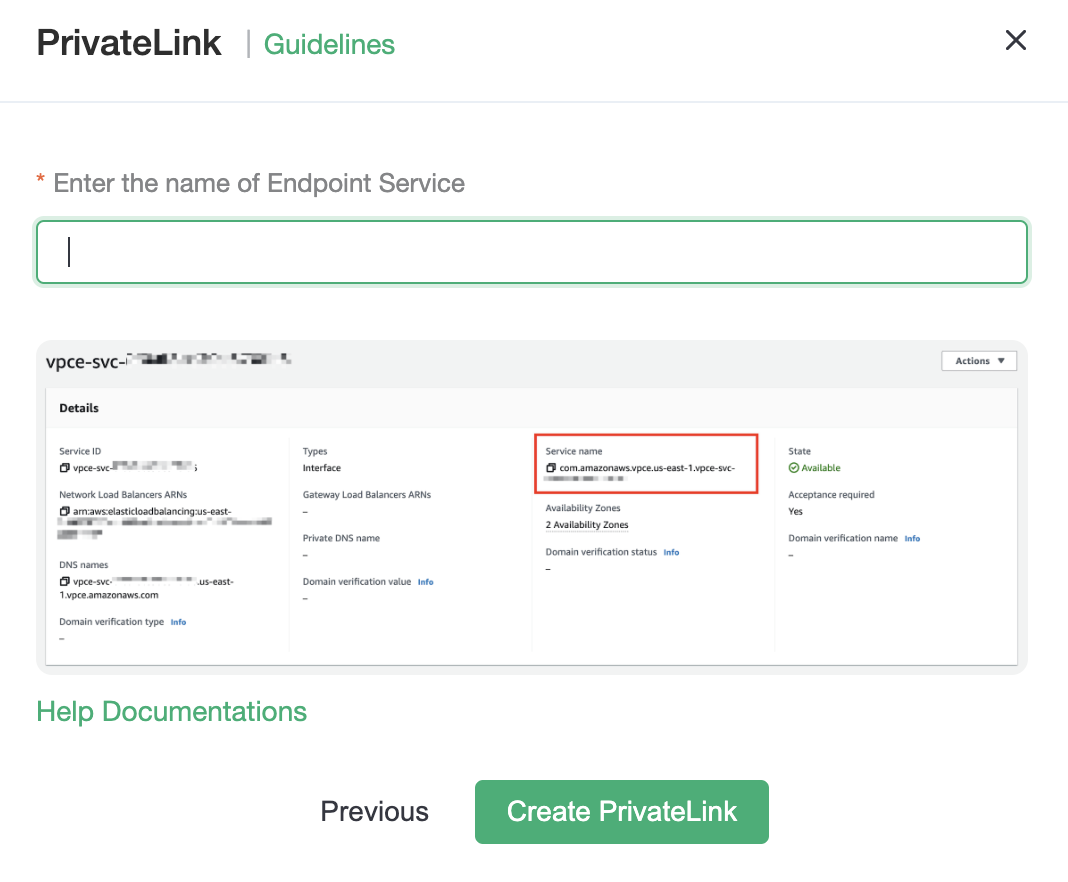
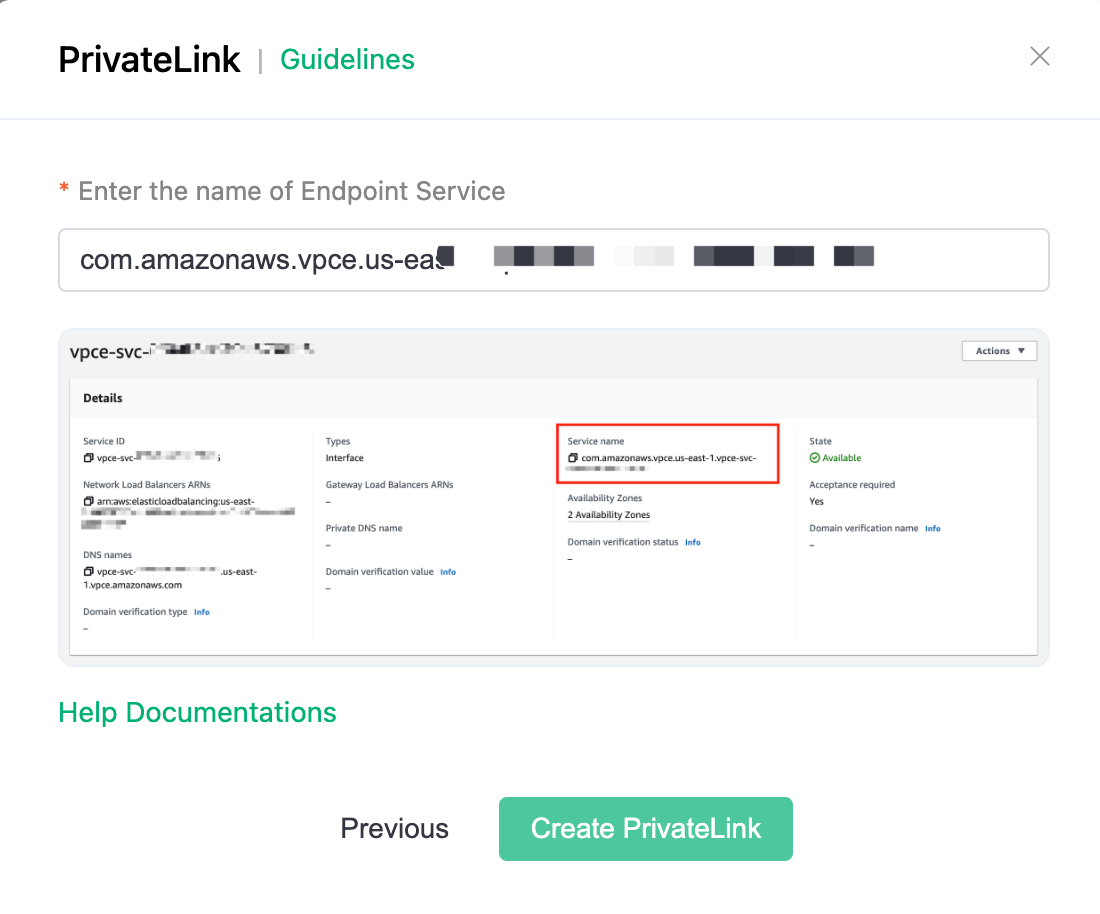
feat(docs): update_privatelink of deployment

diff --git a/en_US/deployments/privatelink.md b/en_US/deployments/privatelink.md
@@ -1,72 +1,99 @@
-# PrivateLink Setting
+# PrivateLink
 
 PrivateLink enables the proprietary network VPC where the EMQX Cloud deployment is located to establish a secure and stable private connection to services on the public cloud. It simplifies the network architecture, enables private access to services, and avoids the potential security risks associated with accessing services over the public network.
 
 In the private connection, the EMQX Cloud deployment VPC acts as the service user and requests the VPC where the user's resources are located in the cloud service provider, i.e., the service provider.
 
-## AWS Platform PrivateLink Connection
+## AWS PrivateLink
 
 <LazyIframeVideo vendor="youtube" src="https://www.youtube.com/embed/vu_3KW4pq9A/?autoplay=1&null" />
 
-### Preparation
+### Before you begin
 
-Before you can configure PrivateLink, you need to complete the following prerequisites on the AWS platform.
+When creating Endpoint Service in AWS, the LB Availability Zone [AZ ID](https://us-east-1.console.aws.amazon.com/ram/home?region=us-east-1#Home) created should be identical to that in the EMQX Cloud deployment. To get the AZ ID in EMQX cloud:
 
-1. register an AWS account and enable the PrivateLink service
+Login to [EMQX Cloud Console](<https://cloud.emqx.com/console>), go to the desired deployment creation details, and click the `+PrivateLink` button to get the deployment availability zone.
+
+![lb](./_assets/deployment_privatelink_details.png)
+
+Before you can configure PrivateLink, you need to complete the following prerequisite steps on the AWS platform.
+
+1. Register an AWS account and enable the PrivateLink service
 
 2. Create an instance and VPC
 
-3. Create and configure load balancer
+3. Create a target group for load balancing
 
-> Note: The LB Availability Zone [AZ ID](https://us-east-1.console.aws.amazon.com/ram/home?region=us-east-1#Home) created here needs to match the EMQX Cloud deployment LB Availability Zone AZ ID, which is available in the This information is available in EMQX Cloud console.
+    On **Basic configuration**, set the **Target group name**, **Protocol** （TCP） and **Port**.
 
-![lb](./_assets/p1.png)
+    ![lb](./_assets/lb_target_group_1.png)
 
-After creating the LB, configure the listening ports of your resources and check if their status is normal.
+    On **Health checks**, set the **Override** port, and for the rest, you can keep the default setting or set as your business needs.
+    ![lb](./_assets/lb_target_group_2.png)
 
-![lb](./_assets/p2.png)
+    Then register target group and create instance.
+    ![lb](./_assets/lb_target_group_3.png)
 
-Create an endpoint node service
+4. Create and configure the Load Balancer with the AZ ID you obtained from EMQX Cloud Console.
 
-Find the Endpoint Node Service in the left menu bar of your AWS account and click Create. The load balancer type is Gateway, select the load balancer created in the previous step.
+    Select the type of load balancing as **Network Load Balancer**.
+    ![lb](./_assets/lb_type.png)
 
-![lb](./_assets/p3.png)
+    Select the schema type as internal to facilitate requests to private IP addresses.
+    ![lb](./_assets/lb_1.png)
 
-You can refer to [AWS Help](https://docs.aws.amazon.com/vpc/latest/privatelink/create-gateway-load-balancer-endpoint-service.html) to complete the above configuration.
+    Select the TCP protocol, fill in the listening port and the corresponding target group.
+    ![lb](./_assets/lb_2.png)
 
-### Create private network connection PrivateLink
+    After creating the load balancer, check whether the listening port status of the target group is healthy.
+    ![lb](./_assets/lb_3.png)
 
-1. Login to [EMQX Cloud Console](<https://cloud.emqx.com/console>), go to the desired deployment creation details, and click the `+PrivateLink` button to get the deployment availability zone AZ ID.
+5. Create an endpoint service
 
-    ![lb](./_assets/p5.png)
+    Find the Endpoint Services in the left menu bar of your AWS account and click Create. The load balancer type is Network, select the load balancer created in the previous step.
+    ![endpoint service](./_assets/endpoint_service_1.png)
 
-2. After getting the AWS account ARN where the deployment is located in EMQX Cloud console, add it to the allowed principals entry of your AWS Platform-Endpoint service.
+    In the additional settings, select the IP address type as IPV4.
+    ![endpoint service](./_assets/endpoint_service_2.png)
 
-    Once added, click `Complete Configuration to go to the next step`.
+    Once created, you will get the endpoint service name.
+    ![endpoint service](./_assets/endpoint_service_3.png)
 
-3. Locate the Endpoint Node service on your AWS platform, copy the service name, fill it to the EMQX Cloud Endpoint Node service name, and click `Create Private Network Connection`.
+    You can refer to [AWS Help](https://docs.aws.amazon.com/vpc/latest/privatelink/create-endpoint-service.html#create-endpoint-service-nlb) to complete the above configuration.
+
+### Enable EMQX Cloud PrivateLink
+
+1. After getting the AWS ARN where the deployment is located in EMQX Cloud console, add it to the allowed principals entry of your AWS Platform-Endpoint Service.
+
+    ![lb](./_assets/endpoint_service_grant.png)
+
+    Once added, click `Allow principals and go to the next step`.
+
+2. Locate the Endpoint service on your AWS platform, copy the service name, fill it to the EMQX Cloud Endpoint service name, and click `Create PrivateLink`.
 
     ![lb](./_assets/p6.png)
 
-4. Once completed, find the Endpoint Node Service - Endpoint Node Connection in your AWS platform and click `Accept Endpoint Node Connection Request`.
+3. Once completed, find the Endpoint Service - Endpoint Connection in your AWS platform and click `Accept Endpoint Connection Request`.
 
-    ![lb](./_assets/p7.png)
+    ![lb](./_assets/accept_enpoint_service.png)
 
-5. Wait for a while and check the status of the private network connection in the deployment details, `running` means it has been created successfully. Copy the `service connection domain` for the next data integration-resource configuration.
+4. Wait for a while and check the status of the PrivateLink in the deployment details, `running` means it has been created successfully. Copy the `Address` for the next data integration-resource configuration.
 
-    ![lb](./_assets/p4.png)
+    ![lb](./_assets/privatelink_status.png)
 
-6. Click the Data Integration menu on the left, find the Redis resource, fill in the `Redis Server` on the New Resource page with the private connection service connection domain and port, click `Test Connection`, and the resource will be available.
+5. Click the Data Integration menu on the left, find the resource type, fill in the `Server` on the New Resource page with the private connection service connection domain and port, databse and user infomation，click `Test`, and the resource will be available.
 
     ![lb](./_assets/privatelink_en_resource.png)
 
-### Delete the private network connection
+### Delete the PrivateLink
 
-To remove the private connection, you need to ensure that the private connection status is `running`.
+To remove the private connection, you need to ensure that the PrivateLink status is `running`.
 
-> - If you need to remove the private network connection service from your AWS platform, please remove the private network connection node from EMQX Cloud console first, otherwise it will cause the deployment private network connection status to be `failed`.
-> - Please ensure that there are no associated resources in the deployment before removing the private connection, otherwise it will lead to unpredictable risks.
+> - If you need to remove the PrivateLink service from your AWS platform, please remove the PrivateLink from EMQX Cloud console first, otherwise it will cause PrivateLink status of the deployment to be `failed`.
+> - Please ensure that there are no associated resources in the deployment before removing the PrivateLink, otherwise it will lead to unpredictable risks.
 
 1. Go to Deployment Details
 
-2. Click on the `Delete button` to the right of the private network connection and click on Confirm to complete the deletion.
+2. Click on the `Delete button` to the right of the PrivateLink and click on Confirm to complete the deletion.
+
+    ![delete](./_assets/delete_privatelink.png)
